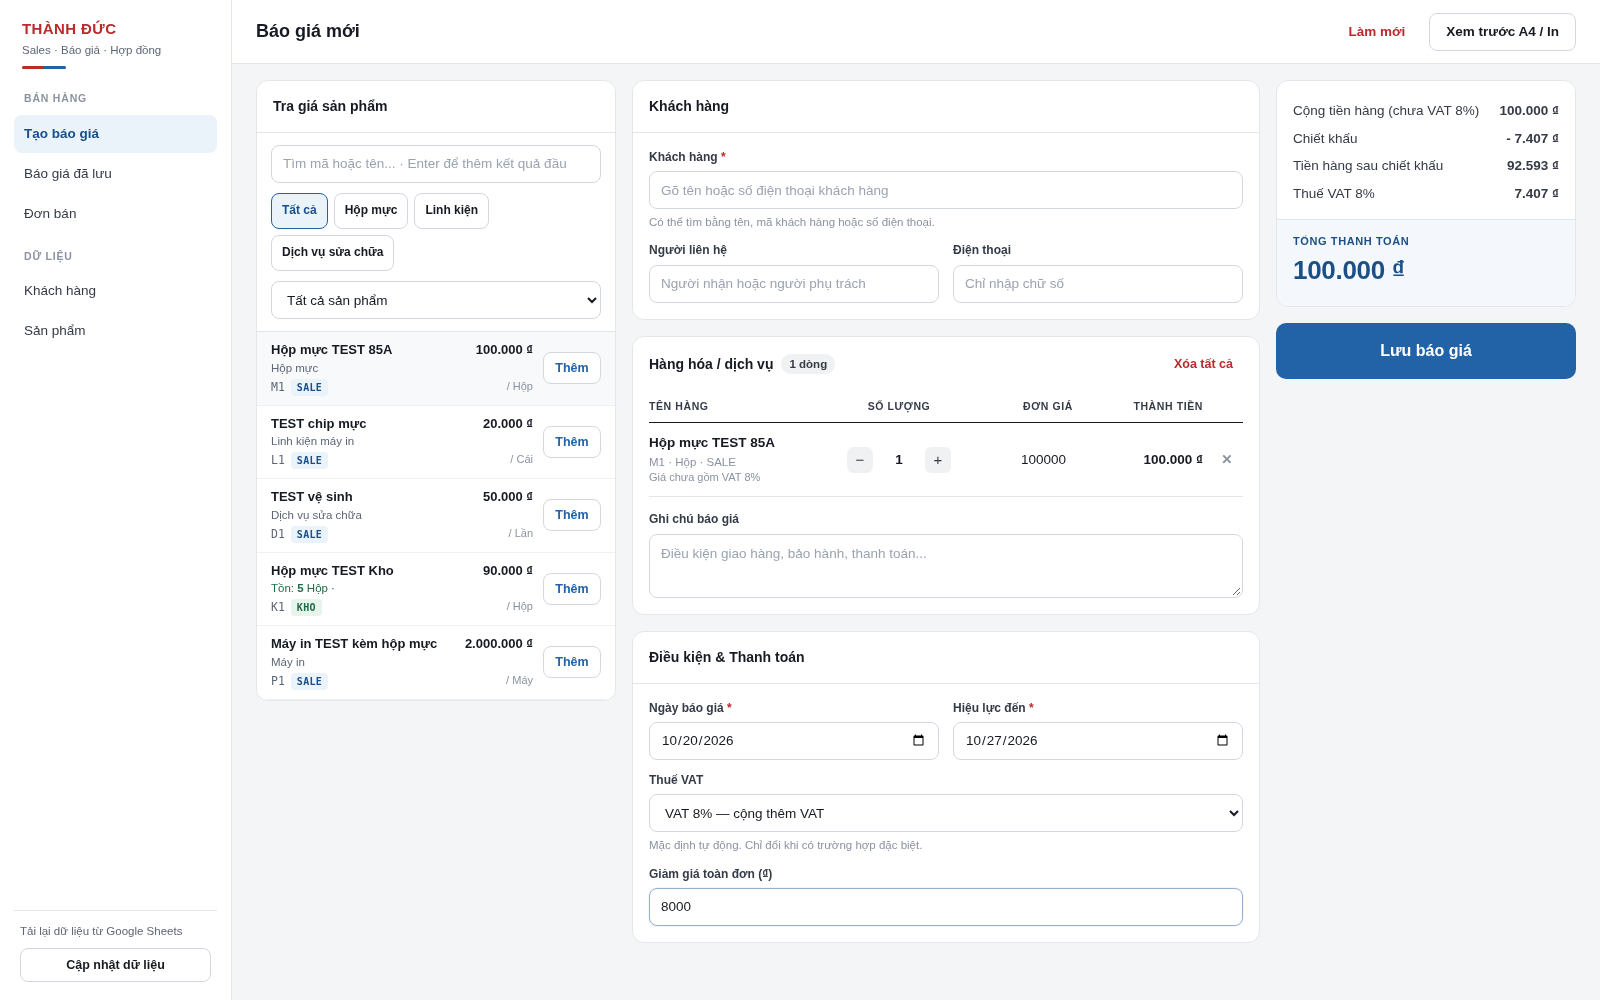
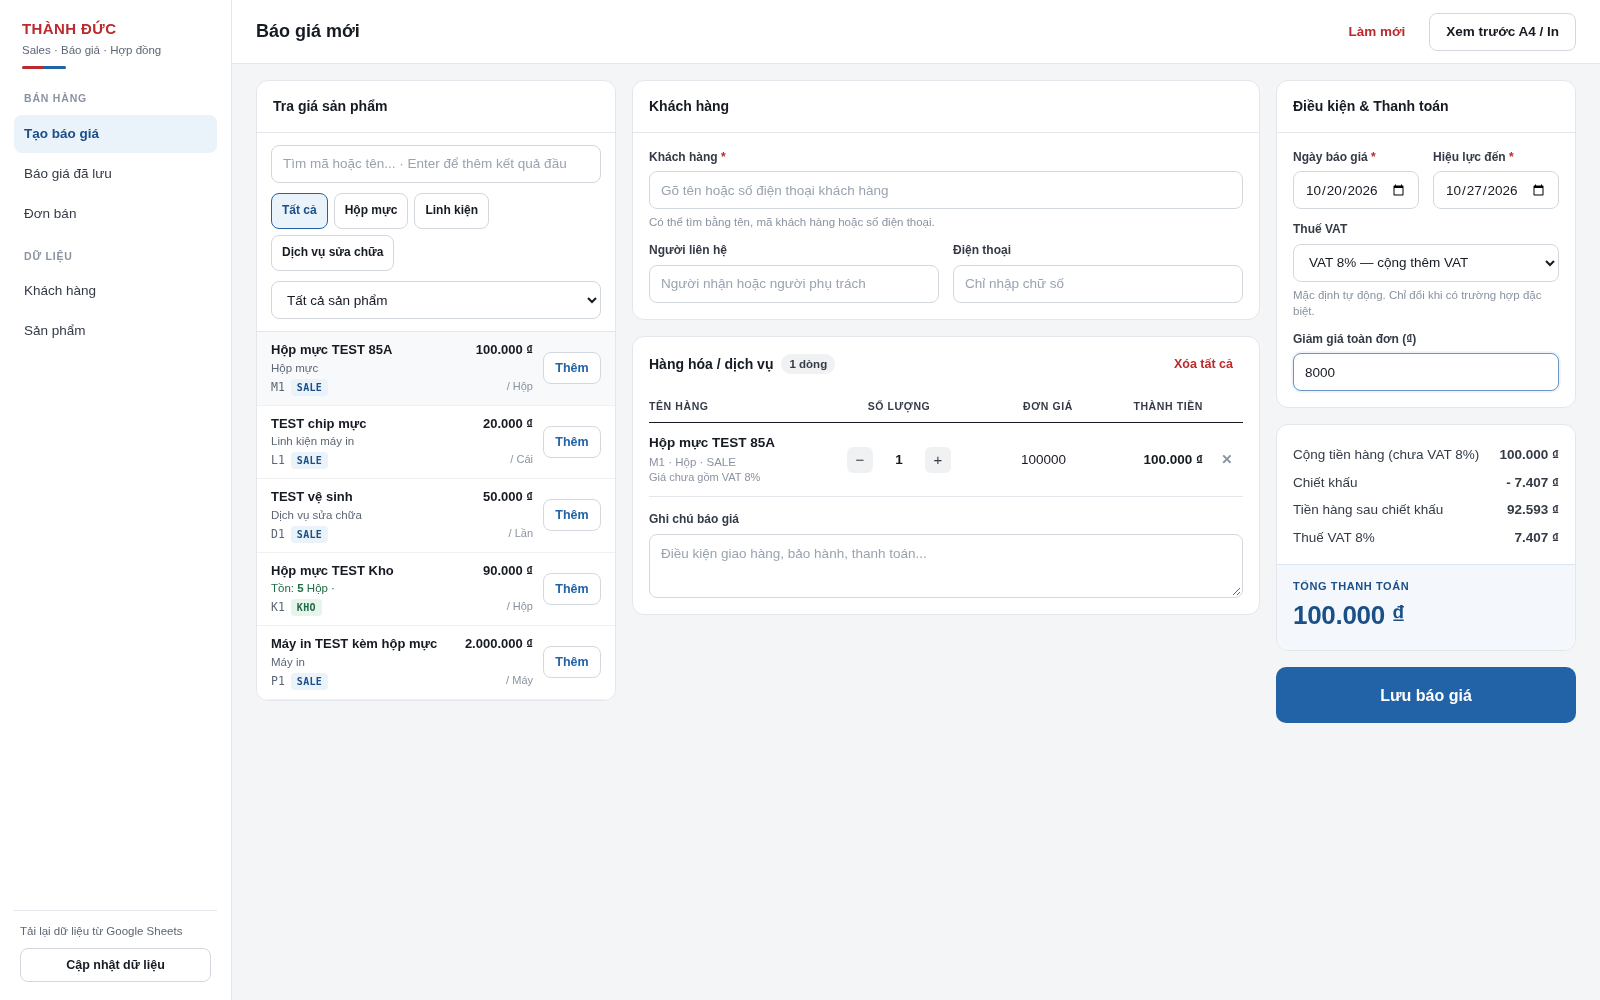
Restore quote conditions to the right-hand column

diff --git a/Index.html b/Index.html
@@ -419,6 +419,9 @@ button.ghost:hover:not(:disabled){background:var(--soft);color:var(--txt)}
       <div class="cart" id="quoteCart"></div>
       <div class="cart-note field"><label>Ghi chú báo giá</label><textarea id="quoteNote" placeholder="Điều kiện giao hàng, bảo hành, thanh toán..."></textarea></div>
     </div>
+  </div>
+
+  <div class="quote-col quote-rail">
     <div class="card quote-conditions">
       <div class="head"><b>Điều kiện &amp; Thanh toán</b></div>
       <div class="body"><div class="form">
@@ -438,9 +441,6 @@ button.ghost:hover:not(:disabled){background:var(--soft);color:var(--txt)}
         <div class="field wide"><label>Giảm giá toàn đơn (₫)</label><input id="quoteDiscount" type="number" value="0" min="0" placeholder="0" oninput="renderQuoteCart()"></div>
       </div></div>
     </div>
-  </div>
-
-  <div class="quote-col quote-rail">
     <div class="card summary-card">
       <div class="summary">
         <div class="sumrow" id="grossSummaryRow"><span id="grossSummaryLabel">Cộng tiền hàng</span><b id="grossAmount">0 ₫</b></div>

diff --git a/docs/sales-quote-ux/README.md b/docs/sales-quote-ux/README.md
@@ -1,7 +1,7 @@
 # Cải tiến màn Báo giá Sales
 
 - Click dòng sản phẩm, Enter/Space trên dòng, hoặc Enter trong ô tìm để thêm kết quả đầu. Nút Thêm vẫn hoạt động, không cộng hai lần do sự kiện nổi bọt; giữ xác nhận giá 0 và khóa nguồn SALE/KHO cũ.
-- Chuyển nguyên khối ngày báo giá, hiệu lực, VAT và giảm giá xuống dưới hàng hóa; giữ ID, callback, payload và cách tính. Cột phải chỉ có tổng tiền và nút Lưu cao 56px.
+- Theo yêu cầu mới của chủ, đưa nguyên khối Điều kiện & Thanh toán về cột phải, phía trên tổng tiền như bố cục cũ; giữ ID, callback, payload và cách tính. Giữ nút Lưu cao 56px.
 - Lọc nhanh Tất cả / Hộp mực / Linh kiện / Dịch vụ sửa chữa; giao với từ khóa và dropdown nguồn/nhóm hiện có. Ưu tiên nhóm đã gán; hàng chưa có nhóm dùng tiền tố tên để lọc hiển thị. Không cập nhật phân loại sản phẩm trên server. Nhóm không khớp vẫn xem được ở Tất cả.
 
 ## Kiểm tra
@@ -19,3 +19,7 @@ Source `6aba576` đã push main, kích hoạt [run 39473744173](https://github.c
 ## Chạy lại thành công — Sales v66
 
 Run 39473744173 attempt 2 thành công; Google nhận 5 file và cập nhật deployment hiện có từ v65 lên **v66**, source `6aba576`. URL không đổi. Đã GET chỉ đọc HTML từ web app thật, xác nhận có quoteQuickFilters, quote-conditions và pickerRowKey. Không chạy tạo/lưu báo giá trên dữ liệu thật để kiểm thử. Lỗi billing ở lần đầu đã được vượt qua khi chủ yêu cầu chạy lại.
+
+## Khôi phục vị trí Điều kiện & Thanh toán
+
+Chủ yêu cầu đưa khối về vị trí cũ: cột phải, trên tổng tiền. Chỉ đổi vị trí DOM, giữ tên khối, lọc nhanh, thêm bằng click/Enter và nút Lưu lớn. Cập nhật test và ảnh theo bố cục này.
